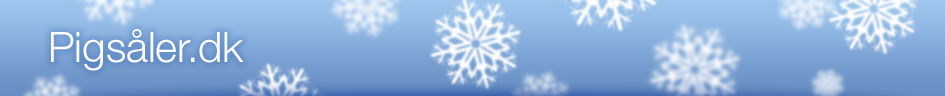
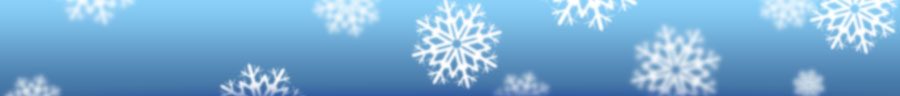
Improved design for pigsaaler

diff --git a/style/pigsaaler/css/navigation.css b/style/pigsaaler/css/navigation.css
@@ -21,66 +21,125 @@ ul.case_navigation li
 {
 	display: inline-block;
 	list-style: none;
-	margin-left: 5px;
+	margin-left: 1px;
 }
 
 ul.case_navigation li a
 {
-	background: url('../gfx/navigation.png') left top no-repeat;
-	display: inline-block;
-	color: #333;
 	text-decoration: none;
 	font-size: 12pt;
 	height: 37px;
 	cursor: pointer;
+	display: inline-block;
 }
 
-ul.case_navigation li span
+ul.case_navigation li a span
 {
-	background: url('../gfx/navigation.png') right -74px no-repeat;
 	display: inline-block;
 	height: 37px;
-}
-
-ul.case_navigation li span span
-{
-	background: url('../gfx/navigation.png') left -37px repeat-x;
-	margin: 0 8px;
 	line-height: 37px;
-	padding: 0 8px;
 	color: #fff;
 }
 
+/******** First *******/
 
-ul.case_navigation li a:hover
+ul.case_navigation li.first a
 {
-	background-position: 0 -111px;
+	background: url('../gfx/navigation.png') left top no-repeat;
 }
 
-ul.case_navigation li a:hover span
+ul.case_navigation li.first span
 {
-	background-position: right -185px;
+	background: url('../gfx/navigation.png') right -148px no-repeat;
 }
 
-ul.case_navigation li a:hover span span
+ul.case_navigation li.first span span
 {
-	background-position: left -148px;
+	background: url('../gfx/navigation.png') left -74px repeat-x;
+	margin: 0 10px;
+	padding: 0 8px 0 12px;
 }
 
-ul.case_navigation li.highlighted a, ul.case_navigation li.selected a
+/******** Last *******/
+
+ul.case_navigation li.last a
 {
-	background-position: 0 -222px;
+	background: url('../gfx/navigation.png') right -37px no-repeat;
 }
 
-ul.case_navigation li.highlighted a span, ul.case_navigation li.selected a span
+ul.case_navigation li.last span
 {
-	background-position: right -296px;
+	background: url('../gfx/navigation.png') left -111px no-repeat;
 }
 
-ul.case_navigation li.highlighted a span span, ul.case_navigation li.selected a span span
+ul.case_navigation li.last span span
 {
-	background-position: right -259px;
-	color: #333;
+	background: url('../gfx/navigation.png') left -74px repeat-x;
+	margin: 0 10px;
+	padding: 0 12px 0 8px;
+}
+
+/******** Middle *******/
+
+ul.case_navigation li.middle a
+{
+	background: url('../gfx/navigation.png') left -111px no-repeat;
+}
+
+ul.case_navigation li.middle span
+{
+	background: url('../gfx/navigation.png') right -148px no-repeat;
+}
+
+ul.case_navigation li.middle span span
+{
+	background: url('../gfx/navigation.png') left -74px repeat-x;
+	margin: 0 10px;
+	padding: 0 8px;
+}
+
+/******** Selected *******/
+
+ul.case_navigation li.selected a
+{
+	background: url('../gfx/navigation.png') left -259px repeat-x;
+}
+
+ul.case_navigation li.selected span span
+{
+	margin: 0 10px;
+	padding: 0 8px;
+	color: #393e45;
+}
+
+/******** First selected *******/
+
+ul.case_navigation li.first_selected a
+{
+	background: url('../gfx/navigation.png') left -185px no-repeat;
+}
+
+ul.case_navigation li.first_selected span span
+{
+	background: url('../gfx/navigation.png') left -259px repeat-x;
+	margin: 0 0 0 10px;
+	padding: 0 22px 0 8px;
+	color: #393e45;
+}
+
+/******** Last selected *******/
+
+ul.case_navigation li.last_selected a
+{
+	background: url('../gfx/navigation.png') right -222px no-repeat;
+}
+
+ul.case_navigation li.last_selected span span
+{
+	background: url('../gfx/navigation.png') left -259px repeat-x;
+	margin: 0 10px 0 0;
+	padding: 0 12px 0 18px;
+	color: #393e45;
 }
 
 /***************** Sub navigation *************/

diff --git a/style/pigsaaler/css/layout.css b/style/pigsaaler/css/layout.css
@@ -1,0 +1,10 @@
+a.layout_logo
+{
+	width: 219px;
+	height: 50px;
+	position: absolute;
+	background: url('../gfx/logo.png');
+	left: 50%;
+	margin-left: -430px;
+	top: 27px;
+}

diff --git a/style/pigsaaler/css/combined.php b/style/pigsaaler/css/combined.php
@@ -1,6 +1,7 @@
 <?
 header('Content-Type: text/css');
 include 'main.css';
+include 'layout.css';
 include 'navigation.css';
 include 'footer.css';
 ?>
